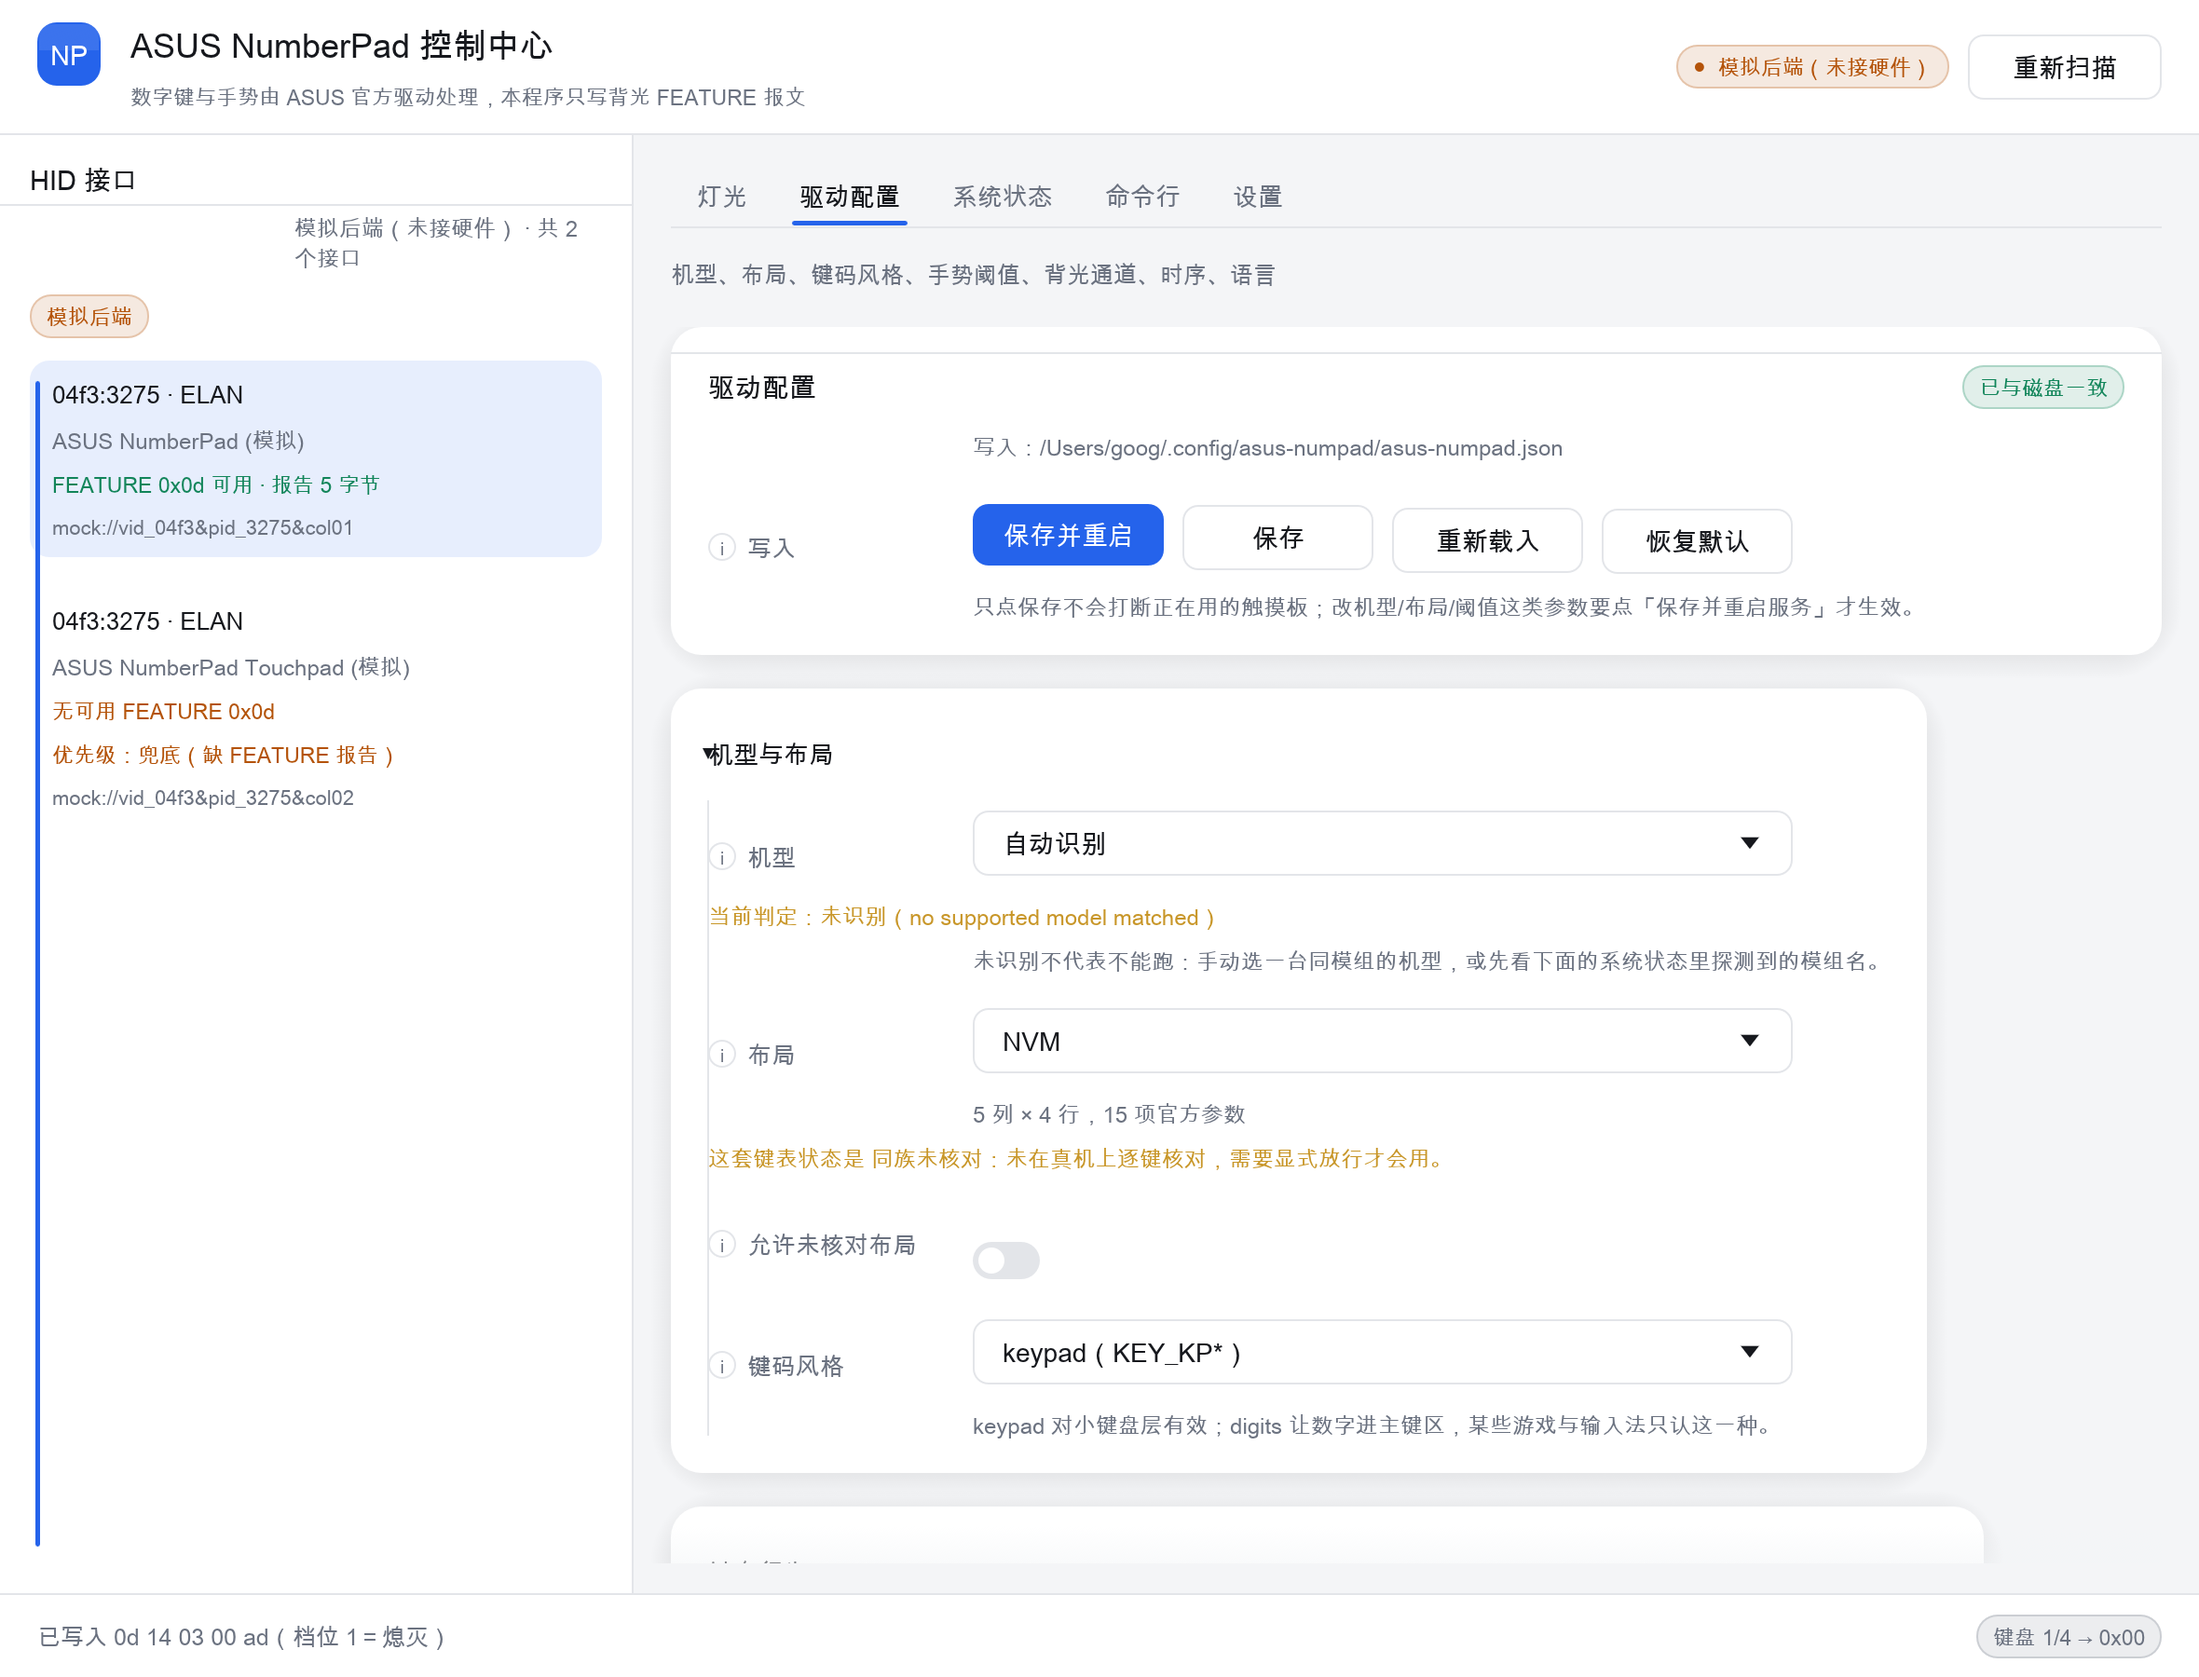
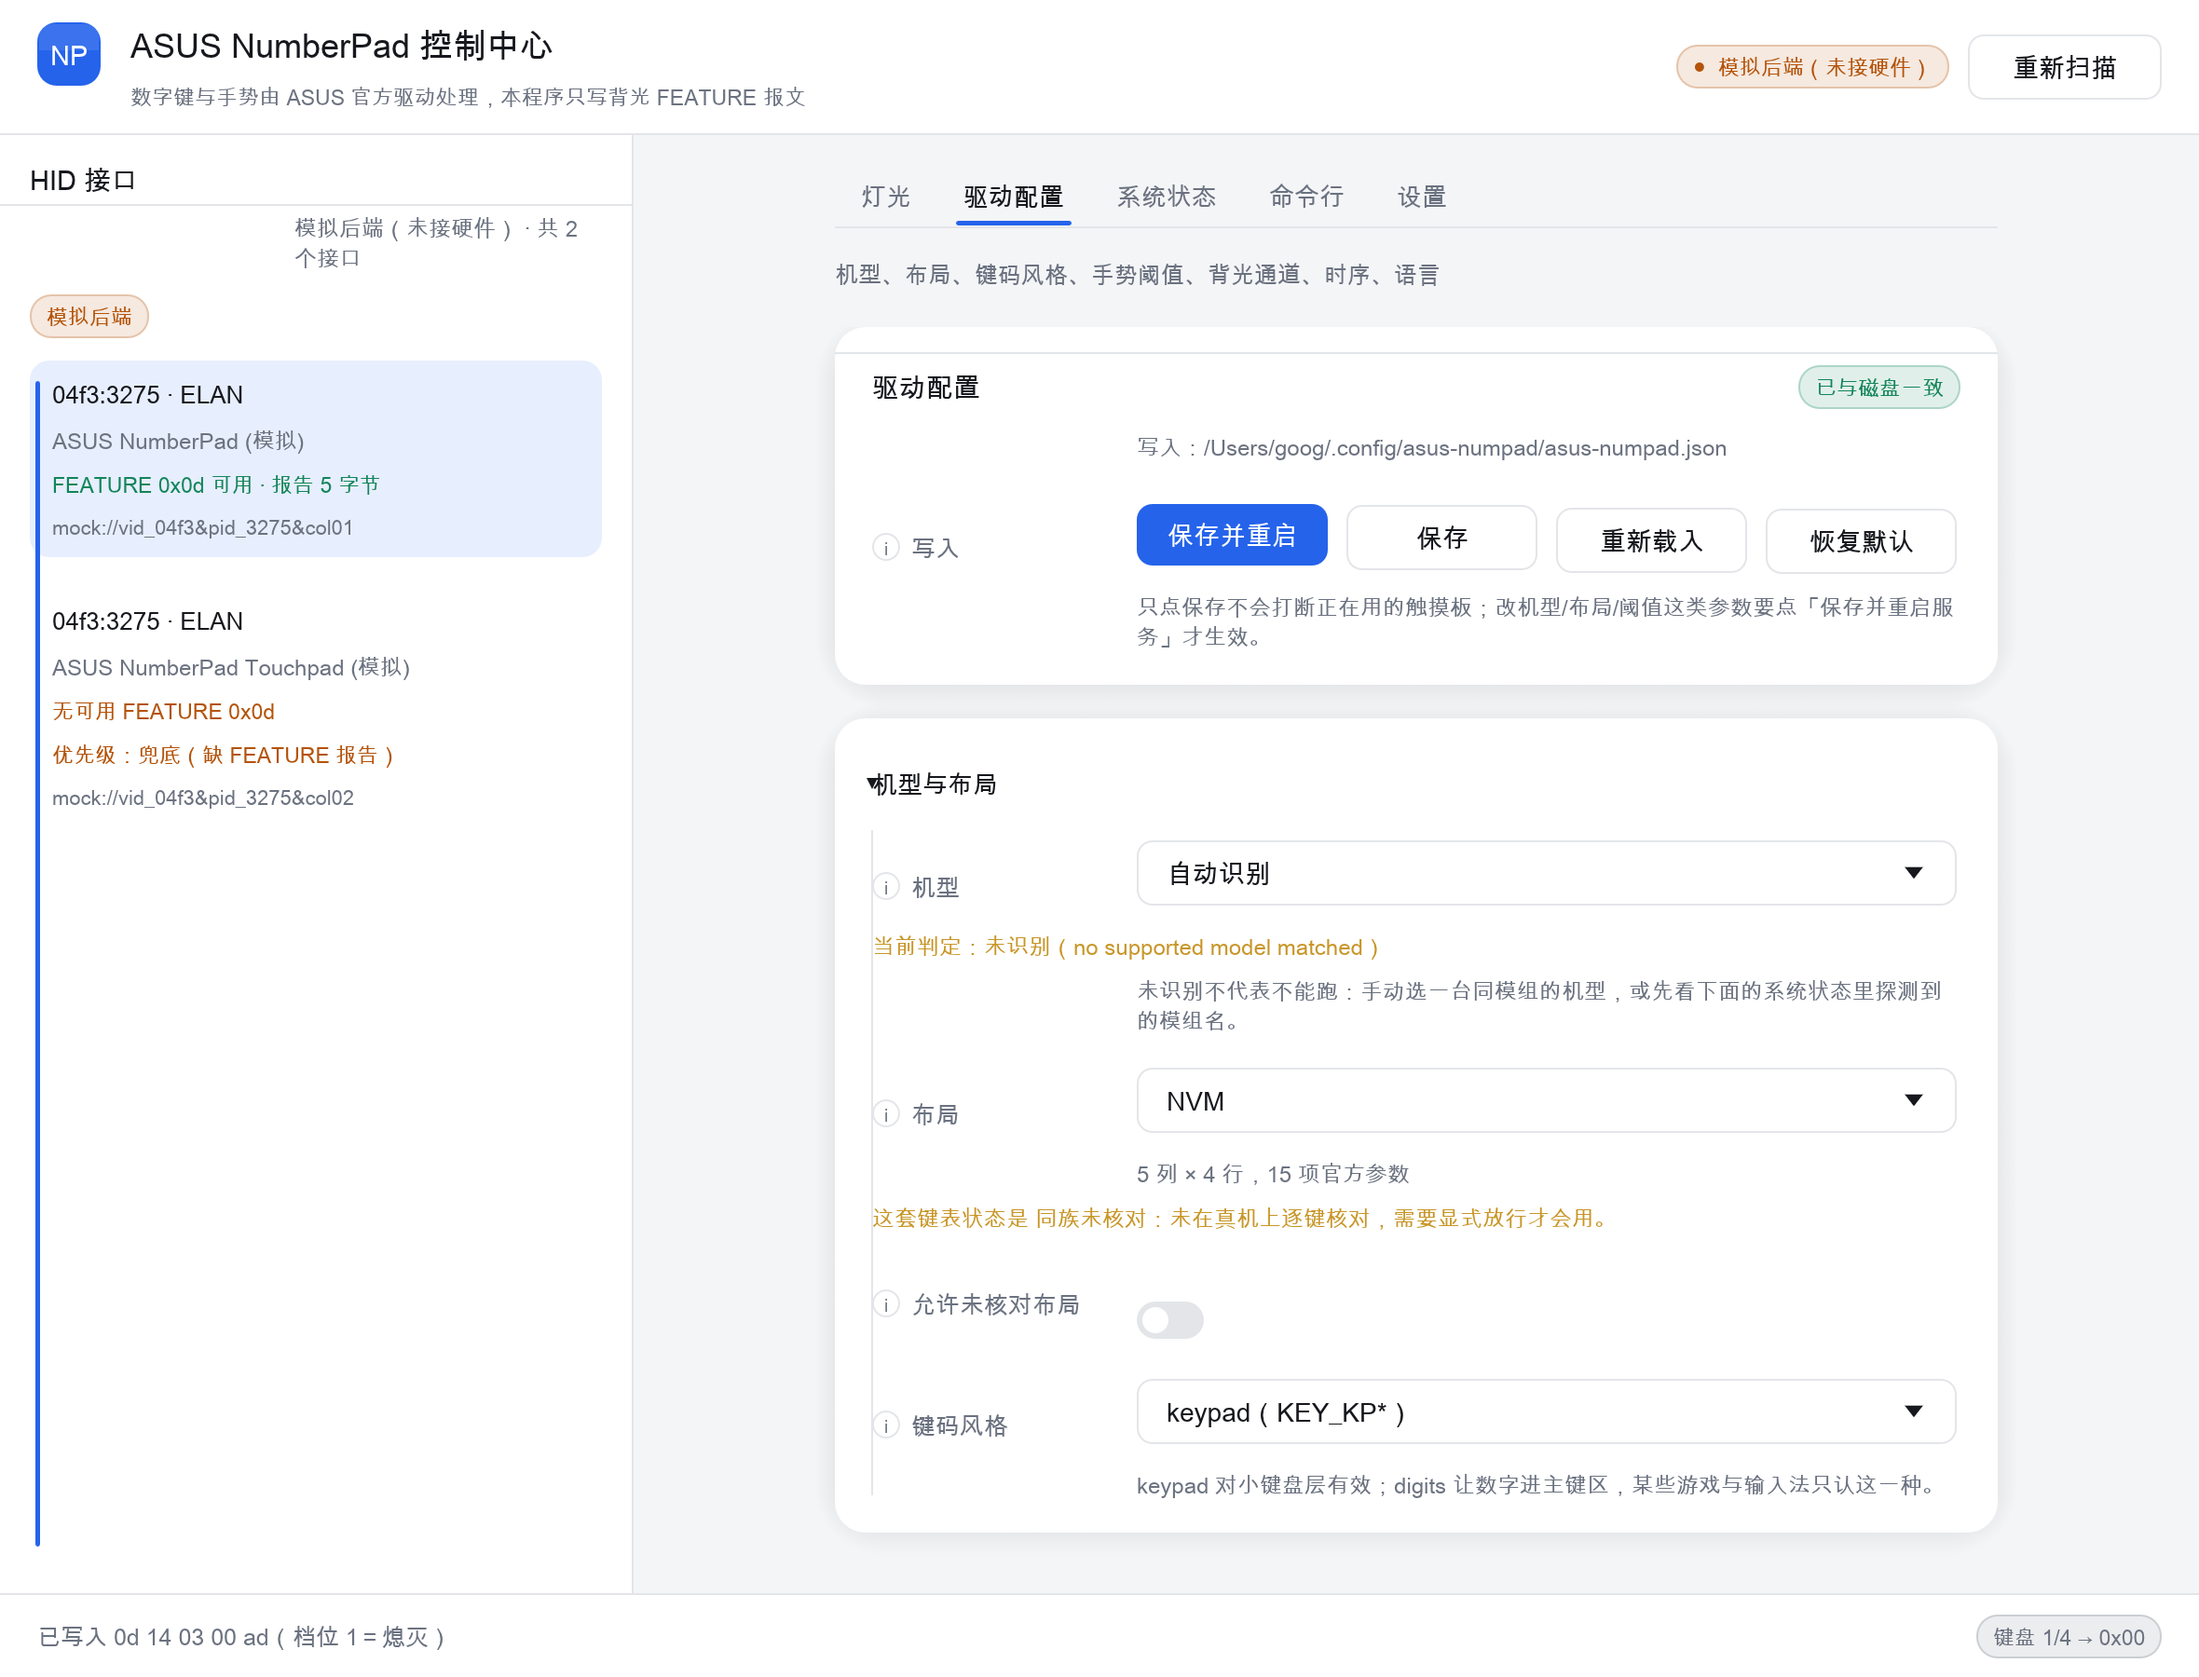
gui: 中央内容列封顶并居中，卡片、页签、控件右缘统一到同一列宽
- theme.rs: 新增 CARD_MAX_W（两倍留白 + 标签列 + 列间距 + 控件列上限），
  card() 强制吃满内容列，不再按内容收缩
- app/mod.rs: 中央面板留白按剩余宽度现算，内容列 CARD_MAX_W 宽左右居中；
  侧栏拖动改变窗口宽度时依然居中且宽度不变

diff --git a/gui/src/app/mod.rs b/gui/src/app/mod.rs
@@ -2144,12 +2144,18 @@ impl eframe::App for App {
         self.draw_devices(root);
 
         let p = self.palette;
+        // 中央内容列（页签、卡片、滚动区）统一到 CARD_MAX_W 宽并左右居中：
+        // 侧栏宽度可拖动，可用宽度每帧都在变，所以留白按剩余宽度现算。
+        // 不居中时卡片右缘停在面板中间，右边空出一大块，几个圆角矩形看着东倒西歪。
+        let spare = (root.available_width() - 40.0 - theme::CARD_MAX_W).max(0.0);
+        let pad = (spare * 0.5).floor();
         egui::CentralPanel::default()
-            .frame(
-                egui::Frame::new()
-                    .fill(p.bg)
-                    .inner_margin(egui::Margin::symmetric(20, 16)),
-            )
+            .frame(egui::Frame::new().fill(p.bg).inner_margin(egui::Margin {
+                left: 20 + pad as i8,
+                right: 20 + pad as i8,
+                top: 16,
+                bottom: 16,
+            }))
             .show(root, |ui| {
                 if self.ui_full {
                     let pages = [
@@ -2193,8 +2199,12 @@ impl eframe::App for App {
                     }
                     ui.add_space(12.0);
                 }
+                // 内容列封顶：窗口再宽也不把表单拉成横贯整页的长输入框，
+                // 页签基线、卡片右缘、控件右缘于是共用同一条右边界。
+                let col_w = ui.available_width().min(theme::CARD_MAX_W);
                 egui::ScrollArea::vertical()
                     .auto_shrink([false, false])
+                    .max_width(col_w)
                     .id_salt(("page", self.tab))
                     .show(ui, |ui| {
                         // 控件列宽度整页只定一次，各卡片、各折叠区里的行都照这一个宽度排

diff --git a/gui/src/theme.rs b/gui/src/theme.rs
@@ -247,6 +247,13 @@ pub fn card<R>(ui: &mut egui::Ui, p: &Palette, add: impl FnOnce(&mut egui::Ui) -
     };
     frame
         .show(ui, |ui| {
+            // 卡片宽度一律吃满内容列，不按内容收缩：`Frame` 默认是「有多大内容就多宽」，
+            // 于是「机型与布局」这种窄卡片右边缘停在 1030，「命令行」那种宽内容撑到
+            // 1159，一页里几个圆角矩形右边缘参差不齐。宽度交给页面统一规定。
+            let w = ui.available_width();
+            if w.is_finite() {
+                ui.set_width(w);
+            }
             // 卡片里不缩进：折叠头、列表这些默认会按 indent 往右推，一推控件列就跟着
             // 偏移，同一份表单在「折叠卡片」和「带标题卡片」里就错开十几像素。
             ui.spacing_mut().indent = 0.0;
@@ -574,6 +581,13 @@ pub const LABEL_W: f32 = 132.0;
 
 /// 卡片内容到卡片边缘的左右留白（[`card`] 的 `inner_margin`）。
 pub const CARD_PAD_X: f32 = 20.0;
+
+/// 内容列（含卡片左右留白）的宽度上限，各页所有卡片共用这一个宽度。
+///
+/// 取值 = 两倍留白 + 标签列 + 列间距 + 控件列上限，也就是「标签 + 最宽控件」刚好
+/// 顶到卡片右边的那一刻：卡片右内边距与控件右边缘落在同一条竖线上，一行里的
+/// 输入框、下拉框、按钮组、档位条右端全部齐平，卡片之间也不会一宽一窄。
+pub const CARD_MAX_W: f32 = CARD_PAD_X * 2.0 + LABEL_W + ROW_GAP + CTRL_MAX_W;
 
 /// 标签列与控件列之间的间距，与全局 `item_spacing.x` 取同一个值。
 pub const ROW_GAP: f32 = 12.0;
